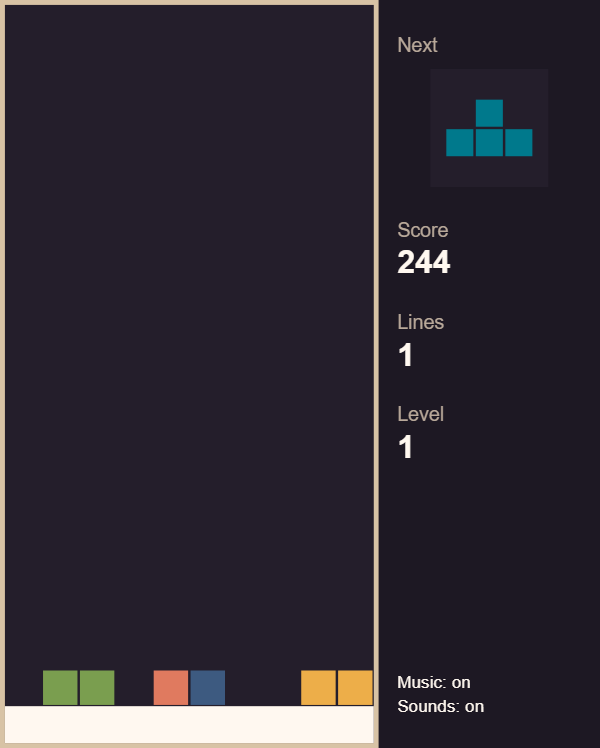
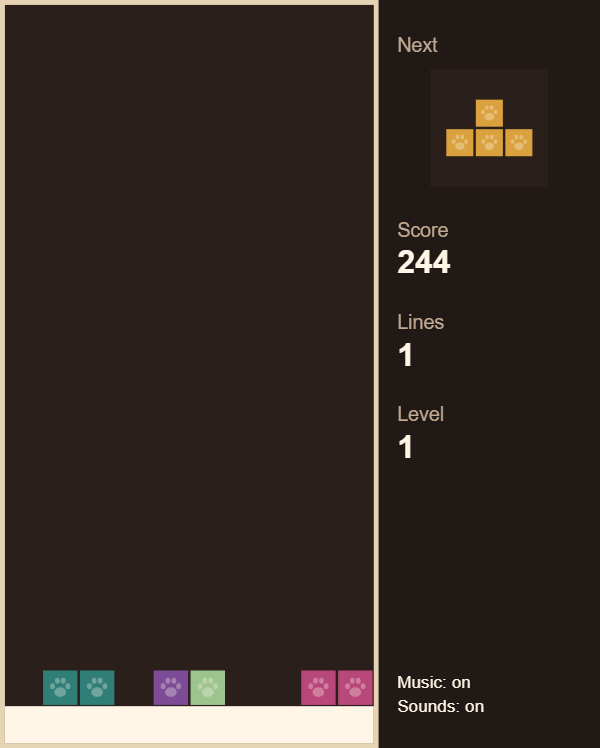
Give the game its own warm look with paw prints and a cat head
New palette of dark browns and cream; the pieces avoid their usual genre colors (A35). Every block carries a paw print, and a cat head drawn as SVG sits left of the title, so the start screen gets no taller. The ghost outline is a little stronger so it stays visible on dark pieces.

README, DEVELOPMENT.md and the pictures in docs/images are updated.

diff --git a/src/render/decor.ts b/src/render/decor.ts
@@ -1,0 +1,85 @@
+// The cat touches of the look (A35): a paw print on every block and a cat
+// head next to the title. Both are drawn in code, without image files.
+import { PALETTE } from './palette';
+
+/**
+ * A small paw print in the middle of a square of `size` whose top left corner
+ * is at (`left`, `top`): one pad and four toes.
+ */
+export function drawPaw(ctx: CanvasRenderingContext2D, left: number, top: number, size: number): void {
+  const cx = left + size / 2;
+  const cy = top + size / 2;
+  ctx.fillStyle = PALETTE.paw;
+  ctx.beginPath();
+  ctx.ellipse(cx, cy + size * 0.12, size * 0.16, size * 0.13, 0, 0, Math.PI * 2);
+  const toes: [number, number][] = [
+    [-0.21, -0.04],
+    [-0.08, -0.19],
+    [0.08, -0.19],
+    [0.21, -0.04],
+  ];
+  for (const [dx, dy] of toes) {
+    const x = cx + dx * size;
+    const y = cy + dy * size;
+    ctx.moveTo(x + size * 0.065, y);
+    ctx.ellipse(x, y, size * 0.065, size * 0.08, 0, 0, Math.PI * 2);
+  }
+  ctx.fill();
+}
+
+const SVG_NS = 'http://www.w3.org/2000/svg';
+const CAT = PALETTE.cat;
+
+function svgShape(tag: string, attributes: Record<string, string | number>): SVGElement {
+  const el = document.createElementNS(SVG_NS, tag);
+  for (const [name, value] of Object.entries(attributes)) el.setAttribute(name, String(value));
+  return el;
+}
+
+/** Ears, face, eyes, nose and mouth in a 100 × 90 box. */
+function catFace(): SVGElement[] {
+  return [
+    svgShape('polygon', { points: '14,44 20,4 46,26', fill: CAT.fur }),
+    svgShape('polygon', { points: '86,44 80,4 54,26', fill: CAT.fur }),
+    svgShape('polygon', { points: '21,34 23,15 37,27', fill: CAT.innerEar }),
+    svgShape('polygon', { points: '79,34 77,15 63,27', fill: CAT.innerEar }),
+    svgShape('ellipse', { cx: 50, cy: 54, rx: 38, ry: 32, fill: CAT.fur }),
+    svgShape('ellipse', { cx: 36, cy: 50, rx: 4.5, ry: 6.5, fill: CAT.eye }),
+    svgShape('ellipse', { cx: 64, cy: 50, rx: 4.5, ry: 6.5, fill: CAT.eye }),
+    svgShape('polygon', { points: '45,62 55,62 50,68', fill: CAT.nose }),
+    svgShape('path', {
+      d: 'M50 68 Q46 74 41 71 M50 68 Q54 74 59 71',
+      fill: 'none',
+      stroke: CAT.eye,
+      'stroke-width': 2,
+      'stroke-linecap': 'round',
+    }),
+  ];
+}
+
+/** Three whiskers on each side, given for the left side and mirrored. */
+function whiskers(): SVGElement[] {
+  const left: [number, number, number, number][] = [
+    [30, 62, 4, 56],
+    [30, 66, 3, 67],
+    [30, 70, 5, 78],
+  ];
+  const both = left.flatMap(([x1, y1, x2, y2]) => [
+    { x1, y1, x2, y2 },
+    { x1: 100 - x1, y1, x2: 100 - x2, y2 },
+  ]);
+  return both.map((line) =>
+    svgShape('line', { ...line, stroke: CAT.whisker, 'stroke-width': 1.5, 'stroke-linecap': 'round' }),
+  );
+}
+
+/** A cat head as an SVG element, `heightEm` high so it scales with the screens (A31). */
+export function catHeadSvg(heightEm: number): SVGSVGElement {
+  const svg = document.createElementNS(SVG_NS, 'svg');
+  svg.setAttribute('viewBox', '0 0 100 90');
+  svg.setAttribute('aria-hidden', 'true');
+  svg.id = 'cat-head';
+  Object.assign(svg.style, { height: `${heightEm}em`, width: `${(heightEm * 100) / 90}em`, display: 'block' });
+  svg.append(...catFace(), ...whiskers());
+  return svg;
+}

diff --git a/src/render/renderer.ts b/src/render/renderer.ts
@@ -1,10 +1,11 @@
-// Draws the game state onto a canvas. Plain interim look: framed field with
+// Draws the game state onto a canvas: framed field with paw-printed blocks,
 // ghost piece and lit full rows, and a sidebar with score, lines, level and
 // the next piece. Start, pause and game over screens are HTML (screens.ts).
 import { BOARD_HEIGHT, BOARD_WIDTH } from '../game/constants';
 import { absoluteCells, landingPosition, type ActivePiece, type GameState } from '../game/game';
 import { pieceCells, type PieceType } from '../game/pieces';
 import { text, type TextKey } from '../i18n/texts';
+import { drawPaw } from './decor';
 import { GHOST_ALPHA, PALETTE, PIECE_COLORS } from './palette';
 
 const CELL_PX = 30;
@@ -19,6 +20,13 @@ const PREVIEW_CELL_PX = 24;
 export const CANVAS_WIDTH = SIDEBAR_LEFT_PX + SIDEBAR_WIDTH_PX;
 export const CANVAS_HEIGHT = FIELD_HEIGHT_PX + 2 * BORDER_PX;
 
+/** A square cell on the canvas, in logical units. */
+interface CellBox {
+  readonly left: number;
+  readonly top: number;
+  readonly size: number;
+}
+
 function cellLeft(x: number): number {
   return BORDER_PX + x * CELL_PX;
 }
@@ -27,10 +35,17 @@ function cellTop(y: number): number {
   return BORDER_PX + y * CELL_PX;
 }
 
+/** One block in the piece color with a paw print (A35), in the field and in the preview alike. */
+function drawPawBlock(ctx: CanvasRenderingContext2D, cell: CellBox, type: PieceType): void {
+  const { left, top, size } = cell;
+  ctx.fillStyle = PIECE_COLORS[type];
+  ctx.fillRect(left + 1, top + 1, size - 2, size - 2);
+  drawPaw(ctx, left, top, size);
+}
+
 function drawBlock(ctx: CanvasRenderingContext2D, x: number, y: number, type: PieceType): void {
   if (y < 0) return; // rows above the field are not drawn (A1)
-  ctx.fillStyle = PIECE_COLORS[type];
-  ctx.fillRect(cellLeft(x) + 1, cellTop(y) + 1, CELL_PX - 2, CELL_PX - 2);
+  drawPawBlock(ctx, { left: cellLeft(x), top: cellTop(y), size: CELL_PX }, type);
 }
 
 /** Pale outline where the piece would land; cells of the piece itself are left out (A14). */
@@ -96,11 +111,10 @@ function drawPreview(ctx: CanvasRenderingContext2D, type: PieceType, top: number
   const ys = cells.map((c) => c.y);
   const offsetX = (PREVIEW_CELLS - (Math.max(...xs) - Math.min(...xs) + 1)) / 2 - Math.min(...xs);
   const offsetY = (PREVIEW_CELLS - (Math.max(...ys) - Math.min(...ys) + 1)) / 2 - Math.min(...ys);
-  ctx.fillStyle = PIECE_COLORS[type];
   for (const { x, y } of cells) {
     const left = boxLeft + (x + offsetX) * PREVIEW_CELL_PX;
     const cellTopPx = boxTop + (y + offsetY) * PREVIEW_CELL_PX;
-    ctx.fillRect(left + 1, cellTopPx + 1, PREVIEW_CELL_PX - 2, PREVIEW_CELL_PX - 2);
+    drawPawBlock(ctx, { left, top: cellTopPx, size: PREVIEW_CELL_PX }, type);
   }
 }
 

diff --git a/src/render/palette.ts b/src/render/palette.ts
@@ -1,32 +1,43 @@
-// All colors in one place (A35). A plain, distinguishable interim palette;
-// the final warm palette follows in a later milestone.
+// All colors in one place (A35): a warm palette of dark browns and cream.
+// The pieces avoid the colors they usually have in the genre; a few muted
+// cool tones (teal, sage, plum) keep the seven pieces apart.
 import type { PieceType } from '../game/pieces';
 
 export const PIECE_COLORS: Readonly<Record<PieceType, string>> = {
-  I: '#d1495b',
-  O: '#edae49',
-  T: '#00798c',
-  S: '#7a9e4f',
-  Z: '#8e5572',
-  L: '#e07a5f',
-  J: '#3d5a80',
+  I: '#c4583e', // terracotta
+  O: '#b8477a', // raspberry
+  T: '#d9a23f', // mustard
+  S: '#2f7f78', // teal
+  Z: '#7f7d22', // olive
+  L: '#7d4c96', // plum
+  J: '#9cc48f', // light sage
 };
 
 export const PALETTE = {
-  page: '#17131c',
-  frame: '#d8c3a5',
-  field: '#241e2b',
-  sidebar: '#1d1823',
-  overlay: 'rgba(0, 0, 0, 0.7)',
+  page: '#1a1310',
+  frame: '#e6d3b3',
+  field: '#2a1f1a',
+  sidebar: '#211915',
+  overlay: 'rgba(26, 19, 16, 0.75)',
   /** Background of the start, pause and game over screens; opaque so the field is hidden (A23). */
-  screen: '#241e2b',
+  screen: '#2a1f1a',
   /** Full rows light up in this color before they disappear (A16). */
-  flash: '#fff8f0',
+  flash: '#fff6e8',
   /** The chosen menu entry. */
-  highlight: '#edae49',
-  text: '#fff8f0',
-  label: '#b9a99a',
+  highlight: '#f0b45a',
+  text: '#fff6e8',
+  label: '#c2ab92',
+  /** The paw print on every block, drawn over the piece color. */
+  paw: 'rgba(255, 246, 232, 0.32)',
+  /** The cat head above the title on the start screen. */
+  cat: {
+    fur: '#e9a35a',
+    innerEar: '#f4c9a6',
+    eye: '#2a1f1a',
+    nose: '#d9707a',
+    whisker: '#fff6e8',
+  },
 } as const;
 
 /** Opacity of the ghost piece outline (A14). */
-export const GHOST_ALPHA = 0.55;
+export const GHOST_ALPHA = 0.7;

diff --git a/src/screens/screens.ts b/src/screens/screens.ts
@@ -5,6 +5,7 @@ import type { GameState } from '../game/game';
 import { NAME_MAX_LENGTH } from '../game/constants';
 import type { HighscoreEntry } from '../highscores/highscores';
 import { text, type TextKey } from '../i18n/texts';
+import { catHeadSvg } from '../render/decor';
 import { PALETTE } from '../render/palette';
 import { highscoreTable } from './highscore-table';
 import { PAUSE_MENU } from './pause-menu';
@@ -79,7 +80,11 @@ function tableSlot(): HTMLElement {
 function startScreen(): { el: HTMLElement; table: HTMLElement; storageHint: HTMLElement } {
   const el = screenElement('start-screen');
   el.style.gap = '0.5em';
-  el.append(heading('title'), element('p', 'pressEnterToStart'));
+  // The cat head sits left of the title, so the screen gets no taller (A35).
+  const title = heading('title');
+  Object.assign(title.style, { display: 'flex', alignItems: 'center', gap: '0.3em' });
+  title.prepend(catHeadSvg(1.3));
+  el.append(title, element('p', 'pressEnterToStart'));
   const keys: TextKey[] = [
     'keysMove',
     'keysRotate',

diff --git a/docs/DEVELOPMENT.md b/docs/DEVELOPMENT.md
@@ -136,7 +136,10 @@ and its restarts, line clear animation), the points, the maximum name length,
 the size of the high score list and the music tempo steps are in
 [src/game/constants.ts](../src/game/constants.ts). Tests refer to these
 names, never to the numbers. All colors are in
-[src/render/palette.ts](../src/render/palette.ts), all visible texts in
+[src/render/palette.ts](../src/render/palette.ts) (a unit test fails if a
+color literal appears anywhere else in `src/`, or if a piece gets the color it
+usually has in the genre); the paw print and the cat head are drawn in
+[src/render/decor.ts](../src/render/decor.ts). All visible texts are in
 [src/i18n/texts.ts](../src/i18n/texts.ts). The volumes of the mix (master,
 music, sounds) and of each kind of sound are at the top of
 [src/audio/audio.ts](../src/audio/audio.ts); melody and bass volume, the
@@ -150,7 +153,7 @@ tempo (`BPM`) and the notes of the music are at the top of
 | `src/game/` | Game rules without browser APIs, unit-tested; `testing.ts` holds helpers for the unit tests only |
 | `src/input/` | Key → action mapping, held keys |
 | `src/i18n/` | All in-game texts |
-| `src/render/` | Drawing on the canvas, scaling to the window, color palette |
+| `src/render/` | Drawing on the canvas, scaling to the window, color palette, paw print and cat head (`decor.ts`) |
 | `src/highscores/` | High score list rules (who enters, order, names), unit-tested |
 | `src/storage/` | Saving the list and the settings in localStorage, unit-tested with a fake storage |
 | `src/screens/` | Start, pause, game over, name entry and high score screens (HTML over the canvas), the high score table and the pause menu |

diff --git a/README.md b/README.md
@@ -12,12 +12,17 @@ Pieces made of four blocks fall into a field of 10 × 20 cells. Move and rotate
 them so they complete rows: full rows light up and disappear. The game gets
 faster as you clear rows, and it ends when the stack reaches the top.
 
-This is an early version (milestone 6 of 8). It has start, pause and game over
+The look is warm and its own: dark browns and cream, seven pieces in
+terracotta, raspberry, mustard, teal, olive, plum and light sage, a small paw
+print on every block and a cat head next to the title. Everything is drawn by
+the game itself; there are no image files.
+
+This is an early version (milestone 7 of 8). It has start, pause and game over
 screens, a high score list, sounds and music, but no German texts yet.
 
 | Start | Pause | Game over |
 |---|---|---|
-| ![Start screen with title, keys and the empty high score list](docs/images/start-screen.png) | ![Pause menu with Resume and Give up](docs/images/pause.png) | ![Game over screen with score, lines and level](docs/images/game-over.png) |
+| ![Start screen with cat head and title, keys and the empty high score list](docs/images/start-screen.png) | ![Pause menu with Resume and Give up](docs/images/pause.png) | ![Game over screen with score, lines and level](docs/images/game-over.png) |
 
 ## Play
 
